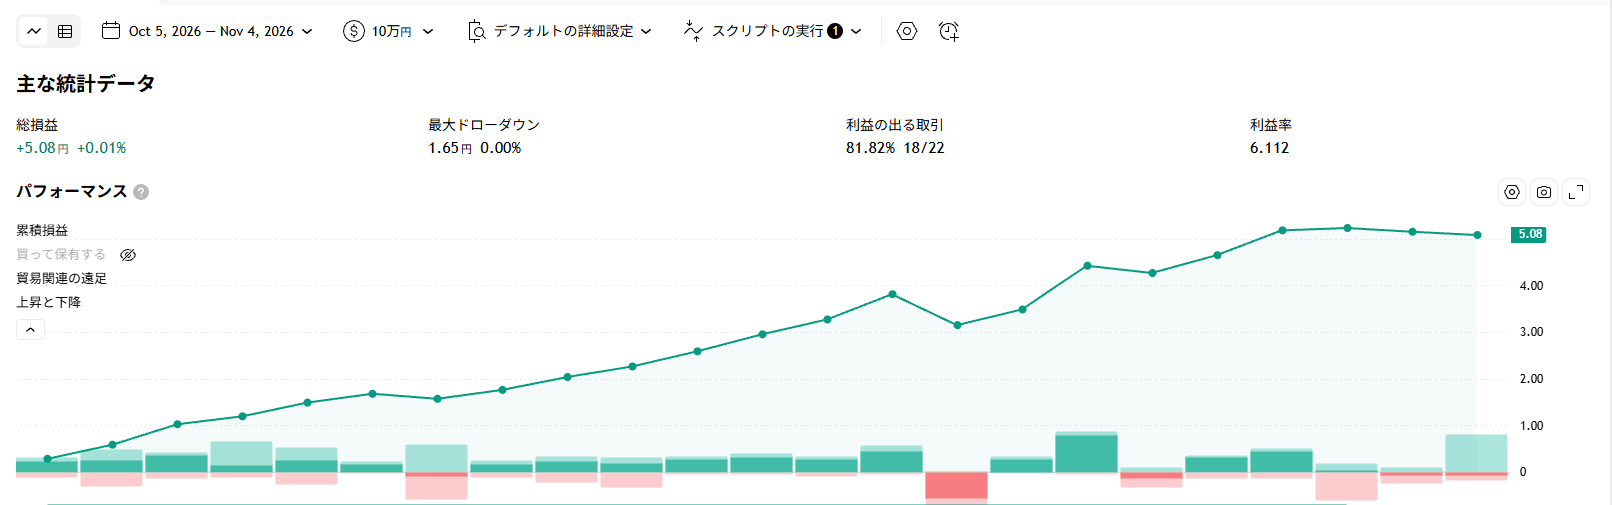
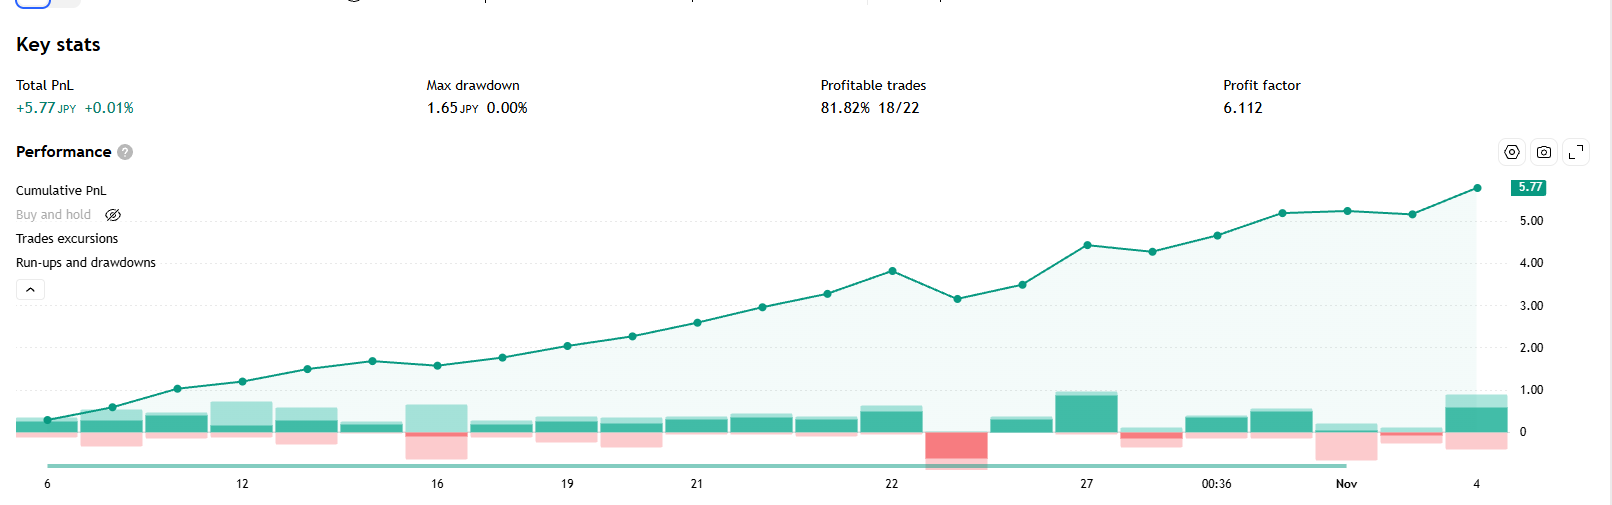
売買記録 2026-11-04（CA_RSI_Bol_1.1_JP）

diff --git a/index.html b/index.html
@@ -47,7 +47,7 @@ ul.days a{display:block;background:var(--card);border:1px solid var(--line);bord
 .eqw .cx{stroke:var(--muted);stroke-width:1;vector-effect:non-scaling-stroke;display:none}
 .eqw .dot{fill:var(--eq);stroke:var(--card);stroke-width:2;vector-effect:non-scaling-stroke;display:none}
 .eqt{position:absolute;top:4px;transform:translateX(-50%);background:var(--card);border:1px solid var(--line);border-radius:6px;padding:4px 8px;font-size:12px;line-height:1.5;white-space:nowrap;pointer-events:none;display:none;box-shadow:0 2px 8px rgba(0,0,0,.14)}
-</style></head><body><header><h1>TradingView 売買記録</h1><div class=sub>通算 ／ CA_RSI_Bol_1.1_JP — USDJPY 3分足</div></header><main><h2>通算成績</h2><p class=note>ChartArt「Bollinger + RSI, Double Strategy」v1.1 の日本語表示版。ロジックは原本と同じで、矢印を「買い／売り」表示にして評価損益を円で出すようにしたもの。アラート2本（1時間足・3分足）が稼働中。いちばん新しい取引（買い・2026-11-03 16:48 建て）は建玉中で、評価損益は含み益・含み損で変わります。</p><div class=kpi><div><div class=k>総損益</div><div class=v><span class="up">+6.77</span> 円</div><div class=n>建玉中込み +6.70 円</div></div><div><div class=k>利益率（PF）</div><div class=v>4.640</div><div class=n>建玉中込み 4.472</div></div><div><div class=k>勝率</div><div class=v>82.8%</div><div class=n>24 勝 / 29 取引</div></div><div><div class=k>最大ドローダウン</div><div class=v>1.92 円</div><div class=n>含み損も数えた谷</div></div></div><p class=note>記録を始めてからためた<b>全 30 取引</b>の通算です（2026-09-29 〜 2026-11-03）。TradingView がさかのぼれる範囲から外れた古い取引も台帳に残してあるので消えません。最後に記録したのは <b>2026-11-04</b>（2026-11-04 11:34 JST）。</p><h2>通算の損益カーブ</h2><p>決済が済んだ取引だけを、決済した順に積み上げたものです。線をなぞるとその取引が出ます。</p><div class=eqw id=eqw><svg viewBox="0 0 380 210" role=img aria-label="通算の損益カーブ。2026年09月29日から2026年11月03日まで、決済済み 29 取引の累積損益は +6.77 円。1件ごとの内訳は下のトレード履歴の表で読めます。"><title>通算の損益カーブ</title><line class="zl" x1="44.0" y1="184.0" x2="372.0" y2="184.0"/><text class=ax x="39.0" y="187.5" text-anchor=end>+0</text><line class="gl" x1="44.0" y1="141.0" x2="372.0" y2="141.0"/><text class=ax x="39.0" y="144.5" text-anchor=end>+2</text><line class="gl" x1="44.0" y1="98.0" x2="372.0" y2="98.0"/><text class=ax x="39.0" y="101.5" text-anchor=end>+4</text><line class="gl" x1="44.0" y1="55.0" x2="372.0" y2="55.0"/><text class=ax x="39.0" y="58.5" text-anchor=end>+6</text><line class="gl" x1="44.0" y1="12.0" x2="372.0" y2="12.0"/><text class=ax x="39.0" y="15.5" text-anchor=end>+8</text><text class=ax x="44.0" y="201.0" text-anchor=start>9/29</text><text class=ax x="202.4" y="201.0" text-anchor=middle>10/16</text><text class=ax x="372.0" y="201.0" text-anchor=end>11/3</text><polygon class=ar points="44.0,184.0 44.0,184.0 46.8,176.7 48.1,168.5 52.6,149.0 57.4,138.0 65.5,156.3 100.0,154.1 106.6,149.4 110.0,143.4 126.5,136.9 132.4,127.5 163.9,123.8 182.7,117.4 183.6,113.3 197.6,115.6 202.4,111.5 232.8,105.5 243.9,100.6 248.0,93.7 252.5,85.7 255.0,78.9 258.7,67.3 294.6,81.4 295.3,74.1 304.3,53.9 315.2,57.4 319.0,49.2 330.7,37.8 359.8,36.7 372.0,38.4 372.0,184.0"/><polyline class=ln points="44.0,184.0 46.8,176.7 48.1,168.5 52.6,149.0 57.4,138.0 65.5,156.3 100.0,154.1 106.6,149.4 110.0,143.4 126.5,136.9 132.4,127.5 163.9,123.8 182.7,117.4 183.6,113.3 197.6,115.6 202.4,111.5 232.8,105.5 243.9,100.6 248.0,93.7 252.5,85.7 255.0,78.9 258.7,67.3 294.6,81.4 295.3,74.1 304.3,53.9 315.2,57.4 319.0,49.2 330.7,37.8 359.8,36.7 372.0,38.4"/><text class=dl x="370.0" y="31.4" text-anchor=end>+6.77 円</text><line class=cx id=eqcx y1="12" y2="184" x1="0" x2="0"/><circle class=dot id=eqdot r="5" cx="0" cy="0"/></svg><div class=eqt id=eqt></div><script type="application/json" id=eqd>[{"x": 44.0, "y": 184.0, "t": "2026/09/29 記録開始<br>累積 +0.00 円"}, {"x": 46.8, "y": 176.7, "t": "2026/09/29 21:21 決済<br>売り +0.34 円<br>累積 +0.34 円"}, {"x": 48.1, "y": 168.5, "t": "2026/09/30 00:36 決済<br>買い +0.38 円<br>累積 +0.72 円"}, {"x": 52.6, "y": 149.0, "t": "2026/09/30 12:15 決済<br>売り +0.91 円<br>累積 +1.63 円"}, {"x": 57.4, "y": 138.0, "t": "2026/10/01 00:30 決済<br>買い +0.51 円<br>累積 +2.14 円"}, {"x": 65.5, "y": 156.3, "t": "2026/10/01 21:24 決済<br>売り -0.85 円<br>累積 +1.29 円"}, {"x": 100.0, "y": 154.1, "t": "2026/10/05 13:54 決済<br>買い +0.10 円<br>累積 +1.39 円"}, {"x": 106.6, "y": 149.4, "t": "2026/10/06 06:57 決済<br>売り +0.22 円<br>累積 +1.61 円"}, {"x": 110.0, "y": 143.4, "t": "2026/10/06 15:45 決済<br>買い +0.28 円<br>累積 +1.89 円"}, {"x": 126.5, "y": 136.9, "t": "2026/10/08 10:06 決済<br>売り +0.30 円<br>累積 +2.19 円"}, {"x": 132.4, "y": 127.5, "t": "2026/10/09 01:09 決済<br>買い +0.44 円<br>累積 +2.63 円"}, {"x": 163.9, "y": 123.8, "t": "2026/10/12 10:18 決済<br>売り +0.17 円<br>累積 +2.80 円"}, {"x": 182.7, "y": 117.4, "t": "2026/10/14 10:36 決済<br>買い +0.30 円<br>累積 +3.10 円"}, {"x": 183.6, "y": 113.3, "t": "2026/10/14 12:45 決済<br>売り +0.19 円<br>累積 +3.29 円"}, {"x": 197.6, "y": 115.6, "t": "2026/10/16 00:42 決済<br>買い -0.11 円<br>累積 +3.18 円"}, {"x": 202.4, "y": 111.5, "t": "2026/10/16 13:09 決済<br>売り +0.19 円<br>累積 +3.37 円"}, {"x": 232.8, "y": 105.5, "t": "2026/10/19 19:18 決済<br>買い +0.28 円<br>累積 +3.65 円"}, {"x": 243.9, "y": 100.6, "t": "2026/10/20 23:48 決済<br>売り +0.23 円<br>累積 +3.88 円"}, {"x": 248.0, "y": 93.7, "t": "2026/10/21 10:09 決済<br>買い +0.32 円<br>累積 +4.20 円"}, {"x": 252.5, "y": 85.7, "t": "2026/10/21 21:48 決済<br>売り +0.37 円<br>累積 +4.57 円"}, {"x": 255.0, "y": 78.9, "t": "2026/10/22 04:18 決済<br>買い +0.32 円<br>累積 +4.89 円"}, {"x": 258.7, "y": 67.3, "t": "2026/10/22 13:45 決済<br>売り +0.54 円<br>累積 +5.43 円"}, {"x": 294.6, "y": 81.4, "t": "2026/10/26 10:03 決済<br>買い -0.66 円<br>累積 +4.77 円"}, {"x": 295.3, "y": 74.1, "t": "2026/10/26 11:48 決済<br>売り +0.34 円<br>累積 +5.11 円"}, {"x": 304.3, "y": 53.9, "t": "2026/10/27 11:00 決済<br>買い +0.94 円<br>累積 +6.05 円"}, {"x": 315.2, "y": 57.4, "t": "2026/10/28 14:54 決済<br>売り -0.16 円<br>累積 +5.89 円"}, {"x": 319.0, "y": 49.2, "t": "2026/10/29 00:36 決済<br>買い +0.38 円<br>累積 +6.27 円"}, {"x": 330.7, "y": 37.8, "t": "2026/10/30 06:39 決済<br>売り +0.53 円<br>累積 +6.80 円"}, {"x": 359.8, "y": 36.7, "t": "2026/11/02 09:33 決済<br>買い +0.05 円<br>累積 +6.85 円"}, {"x": 372.0, "y": 38.4, "t": "2026/11/03 16:48 決済<br>売り -0.08 円<br>累積 +6.77 円"}]</script></div><h2>トレード履歴（通算）</h2><p>全 30 件（新しい順）</p><p class=cap>日時は上がエントリー・下が決済。小さい字は価格です。</p><div class=sc><table><thead><tr><th>#</th><th>方向</th><th>日時</th><th>損益<br>(円)</th><th>累積<br>(円)</th></tr></thead><tbody><tr class=op><td class=num>30</td><td><span class="tag b">買</span></td><td>11/03 16:48<br>↓ <b>建玉中</b><div class=px>157.799 → （未決済）</div></td><td class=num><span class="dn">-0.07</span></td><td class=num>+6.70</td></tr><tr><td class=num>29</td><td><span class="tag s">売</span></td><td>11/02 09:33<br>↓ 11/03 16:48<div class=px>157.719 → 157.799</div></td><td class=num><span class="dn">-0.08</span></td><td class=num>+6.77</td></tr><tr><td class=num>28</td><td><span class="tag b">買</span></td><td>10/30 06:39<br>↓ 11/02 09:33<div class=px>157.668 → 157.719</div></td><td class=num><span class="up">+0.05</span></td><td class=num>+6.85</td></tr><tr><td class=num>27</td><td><span class="tag s">売</span></td><td>10/29 00:36<br>↓ 10/30 06:39<div class=px>158.199 → 157.668</div></td><td class=num><span class="up">+0.53</span></td><td class=num>+6.80</td></tr><tr><td class=num>26</td><td><span class="tag b">買</span></td><td>10/28 14:54<br>↓ 10/29 00:36<div class=px>157.816 → 158.199</div></td><td class=num><span class="up">+0.38</span></td><td class=num>+6.27</td></tr><tr><td class=num>25</td><td><span class="tag s">売</span></td><td>10/27 11:00<br>↓ 10/28 14:54<div class=px>157.659 → 157.816</div></td><td class=num><span class="dn">-0.16</span></td><td class=num>+5.89</td></tr><tr><td class=num>24</td><td><span class="tag b">買</span></td><td>10/26 11:48<br>↓ 10/27 11:00<div class=px>156.721 → 157.659</div></td><td class=num><span class="up">+0.94</span></td><td class=num>+6.05</td></tr><tr><td class=num>23</td><td><span class="tag s">売</span></td><td>10/26 10:03<br>↓ 10/26 11:48<div class=px>157.057 → 156.721</div></td><td class=num><span class="up">+0.34</span></td><td class=num>+5.11</td></tr><tr><td class=num>22</td><td><span class="tag b">買</span></td><td>10/22 13:45<br>↓ 10/26 10:03<div class=px>157.719 → 157.057</div></td><td class=num><span class="dn">-0.66</span></td><td class=num>+4.77</td></tr><tr><td class=num>21</td><td><span class="tag s">売</span></td><td>10/22 04:18<br>↓ 10/22 13:45<div class=px>158.26 → 157.719</div></td><td class=num><span class="up">+0.54</span></td><td class=num>+5.43</td></tr><tr><td class=num>20</td><td><span class="tag b">買</span></td><td>10/21 21:48<br>↓ 10/22 04:18<div class=px>157.942 → 158.26</div></td><td class=num><span class="up">+0.32</span></td><td class=num>+4.89</td></tr><tr><td class=num>19</td><td><span class="tag s">売</span></td><td>10/21 10:09<br>↓ 10/21 21:48<div class=px>158.307 → 157.942</div></td><td class=num><span class="up">+0.37</span></td><td class=num>+4.57</td></tr><tr><td class=num>18</td><td><span class="tag b">買</span></td><td>10/20 23:48<br>↓ 10/21 10:09<div class=px>157.983 → 158.307</div></td><td class=num><span class="up">+0.32</span></td><td class=num>+4.20</td></tr><tr><td class=num>17</td><td><span class="tag s">売</span></td><td>10/19 19:18<br>↓ 10/20 23:48<div class=px>158.21 → 157.983</div></td><td class=num><span class="up">+0.23</span></td><td class=num>+3.88</td></tr><tr><td class=num>16</td><td><span class="tag b">買</span></td><td>10/16 13:09<br>↓ 10/19 19:18<div class=px>157.935 → 158.21</div></td><td class=num><span class="up">+0.28</span></td><td class=num>+3.65</td></tr><tr><td class=num>15</td><td><span class="tag s">売</span></td><td>10/16 00:42<br>↓ 10/16 13:09<div class=px>158.126 → 157.935</div></td><td class=num><span class="up">+0.19</span></td><td class=num>+3.37</td></tr><tr><td class=num>14</td><td><span class="tag b">買</span></td><td>10/14 12:45<br>↓ 10/16 00:42<div class=px>158.234 → 158.126</div></td><td class=num><span class="dn">-0.11</span></td><td class=num>+3.18</td></tr><tr><td class=num>13</td><td><span class="tag s">売</span></td><td>10/14 10:36<br>↓ 10/14 12:45<div class=px>158.423 → 158.234</div></td><td class=num><span class="up">+0.19</span></td><td class=num>+3.29</td></tr><tr><td class=num>12</td><td><span class="tag b">買</span></td><td>10/12 10:18<br>↓ 10/14 10:36<div class=px>158.128 → 158.423</div></td><td class=num><span class="up">+0.30</span></td><td class=num>+3.10</td></tr><tr><td class=num>11</td><td><span class="tag s">売</span></td><td>10/09 01:09<br>↓ 10/12 10:18<div class=px>158.297 → 158.128</div></td><td class=num><span class="up">+0.17</span></td><td class=num>+2.80</td></tr><tr><td class=num>10</td><td><span class="tag b">買</span></td><td>10/08 10:06<br>↓ 10/09 01:09<div class=px>157.858 → 158.297</div></td><td class=num><span class="up">+0.44</span></td><td class=num>+2.63</td></tr><tr><td class=num>9</td><td><span class="tag s">売</span></td><td>10/06 15:45<br>↓ 10/08 10:06<div class=px>158.16 → 157.858</div></td><td class=num><span class="up">+0.30</span></td><td class=num>+2.19</td></tr><tr><td class=num>8</td><td><span class="tag b">買</span></td><td>10/06 06:57<br>↓ 10/06 15:45<div class=px>157.879 → 158.16</div></td><td class=num><span class="up">+0.28</span></td><td class=num>+1.89</td></tr><tr><td class=num>7</td><td><span class="tag s">売</span></td><td>10/05 13:54<br>↓ 10/06 06:57<div class=px>158.103 → 157.879</div></td><td class=num><span class="up">+0.22</span></td><td class=num>+1.61</td></tr><tr><td class=num>6</td><td><span class="tag b">買</span></td><td>10/01 21:24<br>↓ 10/05 13:54<div class=px>158.003 → 158.103</div></td><td class=num><span class="up">+0.10</span></td><td class=num>+1.39</td></tr><tr><td class=num>5</td><td><span class="tag s">売</span></td><td>10/01 00:30<br>↓ 10/01 21:24<div class=px>157.151 → 158.003</div></td><td class=num><span class="dn">-0.85</span></td><td class=num>+1.29</td></tr><tr><td class=num>4</td><td><span class="tag b">買</span></td><td>09/30 12:15<br>↓ 10/01 00:30<div class=px>156.644 → 157.151</div></td><td class=num><span class="up">+0.51</span></td><td class=num>+2.14</td></tr><tr><td class=num>3</td><td><span class="tag s">売</span></td><td>09/30 00:36<br>↓ 09/30 12:15<div class=px>157.553 → 156.644</div></td><td class=num><span class="up">+0.91</span></td><td class=num>+1.63</td></tr><tr><td class=num>2</td><td><span class="tag b">買</span></td><td>09/29 21:21<br>↓ 09/30 00:36<div class=px>157.169 → 157.553</div></td><td class=num><span class="up">+0.38</span></td><td class=num>+0.72</td></tr><tr><td class=num>1</td><td><span class="tag s">売</span></td><td>09/29 14:09<br>↓ 09/29 21:21<div class=px>157.509 → 157.169</div></td><td class=num><span class="up">+0.34</span></td><td class=num>+0.34</td></tr></tbody></table></div><h2>この日の TradingView 画面</h2><p class=note><b>取得日時 2026-11-04 11:34 JST</b><br>TradingView がこの日さかのぼれた範囲は <b>2026-10-06 〜 2026-11-03</b>（23 取引）。その範囲だけで集計すると 総損益 +5.15 円 ／ 利益率 6.109。<br>上の通算と数字が違うのは、通算には窓から外れた古い取引も入っているからです。</p><h3>戦略レポート（主な統計データと累積損益カーブ）</h3><a href='2026-11-04/report.png' target=_blank rel=noopener><img src='2026-11-04/report.png' alt='戦略レポート（主な統計データと累積損益カーブ）'></a><p class=cap>画像をタップすると原寸で開きます</p><h2>日付ごとの記録</h2><ul class=days><li><a href='2026-11-04/'>2026-11-04　← いちばん新しい記録</a></li><li><a href='2026-11-03/'>2026-11-03</a></li><li><a href='2026-11-02/'>2026-11-02</a></li><li><a href='2026-11-01/'>2026-11-01</a></li><li><a href='2026-10-31/'>2026-10-31</a></li></ul><details open><summary>⚠ 数字を読むときの注意</summary><ul><li><b>通算は「記録したときに TradingView に見えていた取引」を足したもの</b>です。記録を始める前の取引や、記録の間隔が開いて窓から外れてしまった取引は入りません</li><li>通算の総損益は<b>1取引ごとの損益を足し上げた値</b>です。TradingView の「累積損益」の列は行ごとに丸めてあるので、そちらとわずかに違います（いちばん新しい記録の範囲で 足し上げ +5.16 円 / TV の列 +5.15 円）</li><li><b>TradingView の画面に出る「利益率」は建玉中の評価損益を含みません</b>。いま建玉中が -0.07 円あり、含めると利益率は 4.640 → 4.472 になります</li><li>表の損益はスプレッドや実際の約定ズレを含みません。実口座の成績とは一致しません</li><li>最大ドローダウンは、決済ごとの累積損益に加えて保有中の含み損も谷として数えています。TradingView の表示と計算の土俵が違うことがあります</li><li>この戦略は5分足6年の独立検証では利益率 0.924（ランダムに入った場合より悪い）でした。ここに出ている短期の高い利益率は、期間の取り方で出ることがあります</li><li>3分足は長期の裏取りができません（手持ちの検証データは最短5分足）</li></ul></details><p class=foot>TradingView の戦略テスターから自動で作っています。取引一覧の原本（CSV）と通算台帳は非公開の保管用リポジトリにあります。</p></main><script>
+</style></head><body><header><h1>TradingView 売買記録</h1><div class=sub>通算 ／ CA_RSI_Bol_1.1_JP — USDJPY 3分足</div></header><main><h2>通算成績</h2><p class=note>ChartArt「Bollinger + RSI, Double Strategy」v1.1 の日本語表示版。ロジックは原本と同じで、矢印を「買い／売り」表示にして評価損益を円で出すようにしたもの。アラート2本（1時間足・3分足）が稼働中。いちばん新しい取引（買い・2026-11-03 16:48 建て）は建玉中で、評価損益は含み益・含み損で変わります。</p><div class=kpi><div><div class=k>総損益</div><div class=v><span class="up">+6.77</span> 円</div><div class=n>建玉中込み +7.39 円</div></div><div><div class=k>利益率（PF）</div><div class=v>4.640</div><div class=n>建玉中込み 4.973</div></div><div><div class=k>勝率</div><div class=v>82.8%</div><div class=n>24 勝 / 29 取引</div></div><div><div class=k>最大ドローダウン</div><div class=v>1.92 円</div><div class=n>含み損も数えた谷</div></div></div><p class=note>記録を始めてからためた<b>全 30 取引</b>の通算です（2026-09-29 〜 2026-11-03）。TradingView がさかのぼれる範囲から外れた古い取引も台帳に残してあるので消えません。最後に記録したのは <b>2026-11-04</b>（2026-11-04 20:50 JST）。</p><h2>通算の損益カーブ</h2><p>決済が済んだ取引だけを、決済した順に積み上げたものです。線をなぞるとその取引が出ます。</p><div class=eqw id=eqw><svg viewBox="0 0 380 210" role=img aria-label="通算の損益カーブ。2026年09月29日から2026年11月03日まで、決済済み 29 取引の累積損益は +6.77 円。1件ごとの内訳は下のトレード履歴の表で読めます。"><title>通算の損益カーブ</title><line class="zl" x1="44.0" y1="184.0" x2="372.0" y2="184.0"/><text class=ax x="39.0" y="187.5" text-anchor=end>+0</text><line class="gl" x1="44.0" y1="141.0" x2="372.0" y2="141.0"/><text class=ax x="39.0" y="144.5" text-anchor=end>+2</text><line class="gl" x1="44.0" y1="98.0" x2="372.0" y2="98.0"/><text class=ax x="39.0" y="101.5" text-anchor=end>+4</text><line class="gl" x1="44.0" y1="55.0" x2="372.0" y2="55.0"/><text class=ax x="39.0" y="58.5" text-anchor=end>+6</text><line class="gl" x1="44.0" y1="12.0" x2="372.0" y2="12.0"/><text class=ax x="39.0" y="15.5" text-anchor=end>+8</text><text class=ax x="44.0" y="201.0" text-anchor=start>9/29</text><text class=ax x="202.4" y="201.0" text-anchor=middle>10/16</text><text class=ax x="372.0" y="201.0" text-anchor=end>11/3</text><polygon class=ar points="44.0,184.0 44.0,184.0 46.8,176.7 48.1,168.5 52.6,149.0 57.4,138.0 65.5,156.3 100.0,154.1 106.6,149.4 110.0,143.4 126.5,136.9 132.4,127.5 163.9,123.8 182.7,117.4 183.6,113.3 197.6,115.6 202.4,111.5 232.8,105.5 243.9,100.6 248.0,93.7 252.5,85.7 255.0,78.9 258.7,67.3 294.6,81.4 295.3,74.1 304.3,53.9 315.2,57.4 319.0,49.2 330.7,37.8 359.8,36.7 372.0,38.4 372.0,184.0"/><polyline class=ln points="44.0,184.0 46.8,176.7 48.1,168.5 52.6,149.0 57.4,138.0 65.5,156.3 100.0,154.1 106.6,149.4 110.0,143.4 126.5,136.9 132.4,127.5 163.9,123.8 182.7,117.4 183.6,113.3 197.6,115.6 202.4,111.5 232.8,105.5 243.9,100.6 248.0,93.7 252.5,85.7 255.0,78.9 258.7,67.3 294.6,81.4 295.3,74.1 304.3,53.9 315.2,57.4 319.0,49.2 330.7,37.8 359.8,36.7 372.0,38.4"/><text class=dl x="370.0" y="31.4" text-anchor=end>+6.77 円</text><line class=cx id=eqcx y1="12" y2="184" x1="0" x2="0"/><circle class=dot id=eqdot r="5" cx="0" cy="0"/></svg><div class=eqt id=eqt></div><script type="application/json" id=eqd>[{"x": 44.0, "y": 184.0, "t": "2026/09/29 記録開始<br>累積 +0.00 円"}, {"x": 46.8, "y": 176.7, "t": "2026/09/29 21:21 決済<br>売り +0.34 円<br>累積 +0.34 円"}, {"x": 48.1, "y": 168.5, "t": "2026/09/30 00:36 決済<br>買い +0.38 円<br>累積 +0.72 円"}, {"x": 52.6, "y": 149.0, "t": "2026/09/30 12:15 決済<br>売り +0.91 円<br>累積 +1.63 円"}, {"x": 57.4, "y": 138.0, "t": "2026/10/01 00:30 決済<br>買い +0.51 円<br>累積 +2.14 円"}, {"x": 65.5, "y": 156.3, "t": "2026/10/01 21:24 決済<br>売り -0.85 円<br>累積 +1.29 円"}, {"x": 100.0, "y": 154.1, "t": "2026/10/05 13:54 決済<br>買い +0.10 円<br>累積 +1.39 円"}, {"x": 106.6, "y": 149.4, "t": "2026/10/06 06:57 決済<br>売り +0.22 円<br>累積 +1.61 円"}, {"x": 110.0, "y": 143.4, "t": "2026/10/06 15:45 決済<br>買い +0.28 円<br>累積 +1.89 円"}, {"x": 126.5, "y": 136.9, "t": "2026/10/08 10:06 決済<br>売り +0.30 円<br>累積 +2.19 円"}, {"x": 132.4, "y": 127.5, "t": "2026/10/09 01:09 決済<br>買い +0.44 円<br>累積 +2.63 円"}, {"x": 163.9, "y": 123.8, "t": "2026/10/12 10:18 決済<br>売り +0.17 円<br>累積 +2.80 円"}, {"x": 182.7, "y": 117.4, "t": "2026/10/14 10:36 決済<br>買い +0.30 円<br>累積 +3.10 円"}, {"x": 183.6, "y": 113.3, "t": "2026/10/14 12:45 決済<br>売り +0.19 円<br>累積 +3.29 円"}, {"x": 197.6, "y": 115.6, "t": "2026/10/16 00:42 決済<br>買い -0.11 円<br>累積 +3.18 円"}, {"x": 202.4, "y": 111.5, "t": "2026/10/16 13:09 決済<br>売り +0.19 円<br>累積 +3.37 円"}, {"x": 232.8, "y": 105.5, "t": "2026/10/19 19:18 決済<br>買い +0.28 円<br>累積 +3.65 円"}, {"x": 243.9, "y": 100.6, "t": "2026/10/20 23:48 決済<br>売り +0.23 円<br>累積 +3.88 円"}, {"x": 248.0, "y": 93.7, "t": "2026/10/21 10:09 決済<br>買い +0.32 円<br>累積 +4.20 円"}, {"x": 252.5, "y": 85.7, "t": "2026/10/21 21:48 決済<br>売り +0.37 円<br>累積 +4.57 円"}, {"x": 255.0, "y": 78.9, "t": "2026/10/22 04:18 決済<br>買い +0.32 円<br>累積 +4.89 円"}, {"x": 258.7, "y": 67.3, "t": "2026/10/22 13:45 決済<br>売り +0.54 円<br>累積 +5.43 円"}, {"x": 294.6, "y": 81.4, "t": "2026/10/26 10:03 決済<br>買い -0.66 円<br>累積 +4.77 円"}, {"x": 295.3, "y": 74.1, "t": "2026/10/26 11:48 決済<br>売り +0.34 円<br>累積 +5.11 円"}, {"x": 304.3, "y": 53.9, "t": "2026/10/27 11:00 決済<br>買い +0.94 円<br>累積 +6.05 円"}, {"x": 315.2, "y": 57.4, "t": "2026/10/28 14:54 決済<br>売り -0.16 円<br>累積 +5.89 円"}, {"x": 319.0, "y": 49.2, "t": "2026/10/29 00:36 決済<br>買い +0.38 円<br>累積 +6.27 円"}, {"x": 330.7, "y": 37.8, "t": "2026/10/30 06:39 決済<br>売り +0.53 円<br>累積 +6.80 円"}, {"x": 359.8, "y": 36.7, "t": "2026/11/02 09:33 決済<br>買い +0.05 円<br>累積 +6.85 円"}, {"x": 372.0, "y": 38.4, "t": "2026/11/03 16:48 決済<br>売り -0.08 円<br>累積 +6.77 円"}]</script></div><h2>トレード履歴（通算）</h2><p>全 30 件（新しい順）</p><p class=cap>日時は上がエントリー・下が決済。小さい字は価格です。</p><div class=sc><table><thead><tr><th>#</th><th>方向</th><th>日時</th><th>損益<br>(円)</th><th>累積<br>(円)</th></tr></thead><tbody><tr class=op><td class=num>30</td><td><span class="tag b">買</span></td><td>11/03 16:48<br>↓ <b>建玉中</b><div class=px>157.799 → （未決済）</div></td><td class=num><span class="up">+0.62</span></td><td class=num>+7.39</td></tr><tr><td class=num>29</td><td><span class="tag s">売</span></td><td>11/02 09:33<br>↓ 11/03 16:48<div class=px>157.719 → 157.799</div></td><td class=num><span class="dn">-0.08</span></td><td class=num>+6.77</td></tr><tr><td class=num>28</td><td><span class="tag b">買</span></td><td>10/30 06:39<br>↓ 11/02 09:33<div class=px>157.668 → 157.719</div></td><td class=num><span class="up">+0.05</span></td><td class=num>+6.85</td></tr><tr><td class=num>27</td><td><span class="tag s">売</span></td><td>10/29 00:36<br>↓ 10/30 06:39<div class=px>158.199 → 157.668</div></td><td class=num><span class="up">+0.53</span></td><td class=num>+6.80</td></tr><tr><td class=num>26</td><td><span class="tag b">買</span></td><td>10/28 14:54<br>↓ 10/29 00:36<div class=px>157.816 → 158.199</div></td><td class=num><span class="up">+0.38</span></td><td class=num>+6.27</td></tr><tr><td class=num>25</td><td><span class="tag s">売</span></td><td>10/27 11:00<br>↓ 10/28 14:54<div class=px>157.659 → 157.816</div></td><td class=num><span class="dn">-0.16</span></td><td class=num>+5.89</td></tr><tr><td class=num>24</td><td><span class="tag b">買</span></td><td>10/26 11:48<br>↓ 10/27 11:00<div class=px>156.721 → 157.659</div></td><td class=num><span class="up">+0.94</span></td><td class=num>+6.05</td></tr><tr><td class=num>23</td><td><span class="tag s">売</span></td><td>10/26 10:03<br>↓ 10/26 11:48<div class=px>157.057 → 156.721</div></td><td class=num><span class="up">+0.34</span></td><td class=num>+5.11</td></tr><tr><td class=num>22</td><td><span class="tag b">買</span></td><td>10/22 13:45<br>↓ 10/26 10:03<div class=px>157.719 → 157.057</div></td><td class=num><span class="dn">-0.66</span></td><td class=num>+4.77</td></tr><tr><td class=num>21</td><td><span class="tag s">売</span></td><td>10/22 04:18<br>↓ 10/22 13:45<div class=px>158.26 → 157.719</div></td><td class=num><span class="up">+0.54</span></td><td class=num>+5.43</td></tr><tr><td class=num>20</td><td><span class="tag b">買</span></td><td>10/21 21:48<br>↓ 10/22 04:18<div class=px>157.942 → 158.26</div></td><td class=num><span class="up">+0.32</span></td><td class=num>+4.89</td></tr><tr><td class=num>19</td><td><span class="tag s">売</span></td><td>10/21 10:09<br>↓ 10/21 21:48<div class=px>158.307 → 157.942</div></td><td class=num><span class="up">+0.37</span></td><td class=num>+4.57</td></tr><tr><td class=num>18</td><td><span class="tag b">買</span></td><td>10/20 23:48<br>↓ 10/21 10:09<div class=px>157.983 → 158.307</div></td><td class=num><span class="up">+0.32</span></td><td class=num>+4.20</td></tr><tr><td class=num>17</td><td><span class="tag s">売</span></td><td>10/19 19:18<br>↓ 10/20 23:48<div class=px>158.21 → 157.983</div></td><td class=num><span class="up">+0.23</span></td><td class=num>+3.88</td></tr><tr><td class=num>16</td><td><span class="tag b">買</span></td><td>10/16 13:09<br>↓ 10/19 19:18<div class=px>157.935 → 158.21</div></td><td class=num><span class="up">+0.28</span></td><td class=num>+3.65</td></tr><tr><td class=num>15</td><td><span class="tag s">売</span></td><td>10/16 00:42<br>↓ 10/16 13:09<div class=px>158.126 → 157.935</div></td><td class=num><span class="up">+0.19</span></td><td class=num>+3.37</td></tr><tr><td class=num>14</td><td><span class="tag b">買</span></td><td>10/14 12:45<br>↓ 10/16 00:42<div class=px>158.234 → 158.126</div></td><td class=num><span class="dn">-0.11</span></td><td class=num>+3.18</td></tr><tr><td class=num>13</td><td><span class="tag s">売</span></td><td>10/14 10:36<br>↓ 10/14 12:45<div class=px>158.423 → 158.234</div></td><td class=num><span class="up">+0.19</span></td><td class=num>+3.29</td></tr><tr><td class=num>12</td><td><span class="tag b">買</span></td><td>10/12 10:18<br>↓ 10/14 10:36<div class=px>158.128 → 158.423</div></td><td class=num><span class="up">+0.30</span></td><td class=num>+3.10</td></tr><tr><td class=num>11</td><td><span class="tag s">売</span></td><td>10/09 01:09<br>↓ 10/12 10:18<div class=px>158.297 → 158.128</div></td><td class=num><span class="up">+0.17</span></td><td class=num>+2.80</td></tr><tr><td class=num>10</td><td><span class="tag b">買</span></td><td>10/08 10:06<br>↓ 10/09 01:09<div class=px>157.858 → 158.297</div></td><td class=num><span class="up">+0.44</span></td><td class=num>+2.63</td></tr><tr><td class=num>9</td><td><span class="tag s">売</span></td><td>10/06 15:45<br>↓ 10/08 10:06<div class=px>158.16 → 157.858</div></td><td class=num><span class="up">+0.30</span></td><td class=num>+2.19</td></tr><tr><td class=num>8</td><td><span class="tag b">買</span></td><td>10/06 06:57<br>↓ 10/06 15:45<div class=px>157.879 → 158.16</div></td><td class=num><span class="up">+0.28</span></td><td class=num>+1.89</td></tr><tr><td class=num>7</td><td><span class="tag s">売</span></td><td>10/05 13:54<br>↓ 10/06 06:57<div class=px>158.103 → 157.879</div></td><td class=num><span class="up">+0.22</span></td><td class=num>+1.61</td></tr><tr><td class=num>6</td><td><span class="tag b">買</span></td><td>10/01 21:24<br>↓ 10/05 13:54<div class=px>158.003 → 158.103</div></td><td class=num><span class="up">+0.10</span></td><td class=num>+1.39</td></tr><tr><td class=num>5</td><td><span class="tag s">売</span></td><td>10/01 00:30<br>↓ 10/01 21:24<div class=px>157.151 → 158.003</div></td><td class=num><span class="dn">-0.85</span></td><td class=num>+1.29</td></tr><tr><td class=num>4</td><td><span class="tag b">買</span></td><td>09/30 12:15<br>↓ 10/01 00:30<div class=px>156.644 → 157.151</div></td><td class=num><span class="up">+0.51</span></td><td class=num>+2.14</td></tr><tr><td class=num>3</td><td><span class="tag s">売</span></td><td>09/30 00:36<br>↓ 09/30 12:15<div class=px>157.553 → 156.644</div></td><td class=num><span class="up">+0.91</span></td><td class=num>+1.63</td></tr><tr><td class=num>2</td><td><span class="tag b">買</span></td><td>09/29 21:21<br>↓ 09/30 00:36<div class=px>157.169 → 157.553</div></td><td class=num><span class="up">+0.38</span></td><td class=num>+0.72</td></tr><tr><td class=num>1</td><td><span class="tag s">売</span></td><td>09/29 14:09<br>↓ 09/29 21:21<div class=px>157.509 → 157.169</div></td><td class=num><span class="up">+0.34</span></td><td class=num>+0.34</td></tr></tbody></table></div><h2>この日の TradingView 画面</h2><p class=note><b>取得日時 2026-11-04 20:50 JST</b><br>TradingView がこの日さかのぼれた範囲は <b>2026-10-06 〜 2026-11-03</b>（23 取引）。その範囲だけで集計すると 総損益 +5.15 円 ／ 利益率 6.109。<br>上の通算と数字が違うのは、通算には窓から外れた古い取引も入っているからです。</p><h3>戦略レポート（主な統計データと累積損益カーブ）</h3><a href='2026-11-04/report.png' target=_blank rel=noopener><img src='2026-11-04/report.png' alt='戦略レポート（主な統計データと累積損益カーブ）'></a><p class=cap>画像をタップすると原寸で開きます</p><h2>日付ごとの記録</h2><ul class=days><li><a href='2026-11-04/'>2026-11-04　← いちばん新しい記録</a></li><li><a href='2026-11-03/'>2026-11-03</a></li><li><a href='2026-11-02/'>2026-11-02</a></li><li><a href='2026-11-01/'>2026-11-01</a></li><li><a href='2026-10-31/'>2026-10-31</a></li></ul><details open><summary>⚠ 数字を読むときの注意</summary><ul><li><b>通算は「記録したときに TradingView に見えていた取引」を足したもの</b>です。記録を始める前の取引や、記録の間隔が開いて窓から外れてしまった取引は入りません</li><li>通算の総損益は<b>1取引ごとの損益を足し上げた値</b>です。TradingView の「累積損益」の列は行ごとに丸めてあるので、そちらとわずかに違います（いちばん新しい記録の範囲で 足し上げ +5.16 円 / TV の列 +5.15 円）</li><li><b>TradingView の画面に出る「利益率」は建玉中の評価損益を含みません</b>。いま建玉中が +0.62 円あり、含めると利益率は 4.640 → 4.973 になります</li><li>表の損益はスプレッドや実際の約定ズレを含みません。実口座の成績とは一致しません</li><li>最大ドローダウンは、決済ごとの累積損益に加えて保有中の含み損も谷として数えています。TradingView の表示と計算の土俵が違うことがあります</li><li>この戦略は5分足6年の独立検証では利益率 0.924（ランダムに入った場合より悪い）でした。ここに出ている短期の高い利益率は、期間の取り方で出ることがあります</li><li>3分足は長期の裏取りができません（手持ちの検証データは最短5分足）</li></ul></details><p class=foot>TradingView の戦略テスターから自動で作っています。取引一覧の原本（CSV）と通算台帳は非公開の保管用リポジトリにあります。</p></main><script>
 (function(){
  var w=document.getElementById('eqw'); if(!w) return;
  var pts=JSON.parse(document.getElementById('eqd').textContent);

diff --git a/2026-11-04/index.html b/2026-11-04/index.html
@@ -47,4 +47,4 @@ ul.days a{display:block;background:var(--card);border:1px solid var(--line);bord
 .eqw .cx{stroke:var(--muted);stroke-width:1;vector-effect:non-scaling-stroke;display:none}
 .eqw .dot{fill:var(--eq);stroke:var(--card);stroke-width:2;vector-effect:non-scaling-stroke;display:none}
 .eqt{position:absolute;top:4px;transform:translateX(-50%);background:var(--card);border:1px solid var(--line);border-radius:6px;padding:4px 8px;font-size:12px;line-height:1.5;white-space:nowrap;pointer-events:none;display:none;box-shadow:0 2px 8px rgba(0,0,0,.14)}
-</style></head><body><header><h1>売買記録 2026-11-04</h1><div class=sub>CA_RSI_Bol_1.1_JP — USDJPY 3分足</div><p style='margin:6px 0 0'><a href='../'>← 通算・過去の一覧</a></p></header><main><div class=kpi><div><div class=k>総損益</div><div class=v><span class="up">+5.15</span> 円</div><div class=n>建玉中込み +5.08 円</div></div><div><div class=k>利益率（PF）</div><div class=v>6.109</div><div class=n>建玉中込み 5.713</div></div><div><div class=k>勝率</div><div class=v>81.8%</div><div class=n>18 勝 / 22 取引</div></div><div><div class=k>最大ドローダウン</div><div class=v>1.65 円</div><div class=n>含み損も数えた谷</div></div></div><p class=note><b>取得日時 2026-11-04 11:34 JST</b>（この日さかのぼれた範囲 2026-10-06 〜 2026-11-03）<br>このページは<b>その日の TradingView 画面そのまま</b>です。古い取引も含めた通算は<a href="../">トップページ</a>にあります。</p><p class=note>ChartArt「Bollinger + RSI, Double Strategy」v1.1 の日本語表示版。ロジックは原本と同じで、矢印を「買い／売り」表示にして評価損益を円で出すようにしたもの。アラート2本（1時間足・3分足）が稼働中。いちばん新しい取引（買い・2026-11-03 16:48 建て）は建玉中で、評価損益は含み益・含み損で変わります。</p><h2>戦略レポート（主な統計データと累積損益カーブ）</h2><a href='report.png' target=_blank rel=noopener><img src='report.png' alt='戦略レポート（主な統計データと累積損益カーブ）'></a><p class=cap>画像をタップすると原寸で開きます</p><h2>この日の取引一覧</h2><p>23 件（新しい順）</p><p class=cap>日時は上がエントリー・下が決済。小さい字は価格です。</p><div class=sc><table><thead><tr><th>#</th><th>方向</th><th>日時</th><th>損益<br>(円)</th><th>累積<br>(円)</th></tr></thead><tbody><tr class=op><td class=num>23</td><td><span class="tag b">買</span></td><td>11/03 16:48<br>↓ <b>建玉中</b><div class=px>157.799 → （未決済）</div></td><td class=num><span class="dn">-0.07</span></td><td class=num>+5.08</td></tr><tr><td class=num>22</td><td><span class="tag s">売</span></td><td>11/02 09:33<br>↓ 11/03 16:48<div class=px>157.719 → 157.799</div></td><td class=num><span class="dn">-0.08</span></td><td class=num>+5.15</td></tr><tr><td class=num>21</td><td><span class="tag b">買</span></td><td>10/30 06:39<br>↓ 11/02 09:33<div class=px>157.668 → 157.719</div></td><td class=num><span class="up">+0.05</span></td><td class=num>+5.23</td></tr><tr><td class=num>20</td><td><span class="tag s">売</span></td><td>10/29 00:36<br>↓ 10/30 06:39<div class=px>158.199 → 157.668</div></td><td class=num><span class="up">+0.53</span></td><td class=num>+5.18</td></tr><tr><td class=num>19</td><td><span class="tag b">買</span></td><td>10/28 14:54<br>↓ 10/29 00:36<div class=px>157.816 → 158.199</div></td><td class=num><span class="up">+0.38</span></td><td class=num>+4.65</td></tr><tr><td class=num>18</td><td><span class="tag s">売</span></td><td>10/27 11:00<br>↓ 10/28 14:54<div class=px>157.659 → 157.816</div></td><td class=num><span class="dn">-0.16</span></td><td class=num>+4.26</td></tr><tr><td class=num>17</td><td><span class="tag b">買</span></td><td>10/26 11:48<br>↓ 10/27 11:00<div class=px>156.721 → 157.659</div></td><td class=num><span class="up">+0.94</span></td><td class=num>+4.42</td></tr><tr><td class=num>16</td><td><span class="tag s">売</span></td><td>10/26 10:03<br>↓ 10/26 11:48<div class=px>157.057 → 156.721</div></td><td class=num><span class="up">+0.34</span></td><td class=num>+3.48</td></tr><tr><td class=num>15</td><td><span class="tag b">買</span></td><td>10/22 13:45<br>↓ 10/26 10:03<div class=px>157.719 → 157.057</div></td><td class=num><span class="dn">-0.66</span></td><td class=num>+3.15</td></tr><tr><td class=num>14</td><td><span class="tag s">売</span></td><td>10/22 04:18<br>↓ 10/22 13:45<div class=px>158.26 → 157.719</div></td><td class=num><span class="up">+0.54</span></td><td class=num>+3.81</td></tr><tr><td class=num>13</td><td><span class="tag b">買</span></td><td>10/21 21:48<br>↓ 10/22 04:18<div class=px>157.942 → 158.26</div></td><td class=num><span class="up">+0.32</span></td><td class=num>+3.27</td></tr><tr><td class=num>12</td><td><span class="tag s">売</span></td><td>10/21 10:09<br>↓ 10/21 21:48<div class=px>158.307 → 157.942</div></td><td class=num><span class="up">+0.37</span></td><td class=num>+2.95</td></tr><tr><td class=num>11</td><td><span class="tag b">買</span></td><td>10/20 23:48<br>↓ 10/21 10:09<div class=px>157.983 → 158.307</div></td><td class=num><span class="up">+0.32</span></td><td class=num>+2.58</td></tr><tr><td class=num>10</td><td><span class="tag s">売</span></td><td>10/19 19:18<br>↓ 10/20 23:48<div class=px>158.21 → 157.983</div></td><td class=num><span class="up">+0.23</span></td><td class=num>+2.26</td></tr><tr><td class=num>9</td><td><span class="tag b">買</span></td><td>10/16 13:09<br>↓ 10/19 19:18<div class=px>157.935 → 158.21</div></td><td class=num><span class="up">+0.28</span></td><td class=num>+2.03</td></tr><tr><td class=num>8</td><td><span class="tag s">売</span></td><td>10/16 00:42<br>↓ 10/16 13:09<div class=px>158.126 → 157.935</div></td><td class=num><span class="up">+0.19</span></td><td class=num>+1.76</td></tr><tr><td class=num>7</td><td><span class="tag b">買</span></td><td>10/14 12:45<br>↓ 10/16 00:42<div class=px>158.234 → 158.126</div></td><td class=num><span class="dn">-0.11</span></td><td class=num>+1.57</td></tr><tr><td class=num>6</td><td><span class="tag s">売</span></td><td>10/14 10:36<br>↓ 10/14 12:45<div class=px>158.423 → 158.234</div></td><td class=num><span class="up">+0.19</span></td><td class=num>+1.68</td></tr><tr><td class=num>5</td><td><span class="tag b">買</span></td><td>10/12 10:18<br>↓ 10/14 10:36<div class=px>158.128 → 158.423</div></td><td class=num><span class="up">+0.30</span></td><td class=num>+1.49</td></tr><tr><td class=num>4</td><td><span class="tag s">売</span></td><td>10/09 01:09<br>↓ 10/12 10:18<div class=px>158.297 → 158.128</div></td><td class=num><span class="up">+0.17</span></td><td class=num>+1.19</td></tr><tr><td class=num>3</td><td><span class="tag b">買</span></td><td>10/08 10:06<br>↓ 10/09 01:09<div class=px>157.858 → 158.297</div></td><td class=num><span class="up">+0.44</span></td><td class=num>+1.02</td></tr><tr><td class=num>2</td><td><span class="tag s">売</span></td><td>10/06 15:45<br>↓ 10/08 10:06<div class=px>158.16 → 157.858</div></td><td class=num><span class="up">+0.30</span></td><td class=num>+0.58</td></tr><tr><td class=num>1</td><td><span class="tag b">買</span></td><td>10/06 06:57<br>↓ 10/06 15:45<div class=px>157.879 → 158.16</div></td><td class=num><span class="up">+0.28</span></td><td class=num>+0.28</td></tr></tbody></table></div><details open><summary>⚠ 数字を読むときの注意</summary><ul><li><b>取得日時は 2026-11-04 11:34 JST</b>。TradingView の Essential プランはさかのぼれる期間が日ごとにずれるため、<b>後日まったく同じ操作をしても集計期間と数字が変わります</b></li><li><b>TradingView の画面に出る「利益率」は建玉中の評価損益を含みません</b>。いま建玉中が -0.07 円あり、含めると利益率は 6.109 → 5.713 になります</li><li>表の損益はスプレッドや実際の約定ズレを含みません。実口座の成績とは一致しません</li><li>最大ドローダウンは、決済ごとの累積損益に加えて保有中の含み損も谷として数えています。TradingView の表示と計算の土俵が違うことがあります</li><li>この戦略は5分足6年の独立検証では利益率 0.924（ランダムに入った場合より悪い）でした。ここに出ている短期の高い利益率は、期間の取り方で出ることがあります</li><li>3分足は長期の裏取りができません（手持ちの検証データは最短5分足）</li></ul></details></main></body></html>
+</style></head><body><header><h1>売買記録 2026-11-04</h1><div class=sub>CA_RSI_Bol_1.1_JP — USDJPY 3分足</div><p style='margin:6px 0 0'><a href='../'>← 通算・過去の一覧</a></p></header><main><div class=kpi><div><div class=k>総損益</div><div class=v><span class="up">+5.15</span> 円</div><div class=n>建玉中込み +5.77 円</div></div><div><div class=k>利益率（PF）</div><div class=v>6.109</div><div class=n>建玉中込み 6.723</div></div><div><div class=k>勝率</div><div class=v>81.8%</div><div class=n>18 勝 / 22 取引</div></div><div><div class=k>最大ドローダウン</div><div class=v>1.65 円</div><div class=n>含み損も数えた谷</div></div></div><p class=note><b>取得日時 2026-11-04 20:50 JST</b>（この日さかのぼれた範囲 2026-10-06 〜 2026-11-03）<br>このページは<b>その日の TradingView 画面そのまま</b>です。古い取引も含めた通算は<a href="../">トップページ</a>にあります。</p><p class=note>ChartArt「Bollinger + RSI, Double Strategy」v1.1 の日本語表示版。ロジックは原本と同じで、矢印を「買い／売り」表示にして評価損益を円で出すようにしたもの。アラート2本（1時間足・3分足）が稼働中。いちばん新しい取引（買い・2026-11-03 16:48 建て）は建玉中で、評価損益は含み益・含み損で変わります。</p><h2>戦略レポート（主な統計データと累積損益カーブ）</h2><a href='report.png' target=_blank rel=noopener><img src='report.png' alt='戦略レポート（主な統計データと累積損益カーブ）'></a><p class=cap>画像をタップすると原寸で開きます</p><h2>この日の取引一覧</h2><p>23 件（新しい順）</p><p class=cap>日時は上がエントリー・下が決済。小さい字は価格です。</p><div class=sc><table><thead><tr><th>#</th><th>方向</th><th>日時</th><th>損益<br>(円)</th><th>累積<br>(円)</th></tr></thead><tbody><tr class=op><td class=num>23</td><td><span class="tag b">買</span></td><td>11/03 16:48<br>↓ <b>建玉中</b><div class=px>157.799 → （未決済）</div></td><td class=num><span class="up">+0.62</span></td><td class=num>+5.77</td></tr><tr><td class=num>22</td><td><span class="tag s">売</span></td><td>11/02 09:33<br>↓ 11/03 16:48<div class=px>157.719 → 157.799</div></td><td class=num><span class="dn">-0.08</span></td><td class=num>+5.15</td></tr><tr><td class=num>21</td><td><span class="tag b">買</span></td><td>10/30 06:39<br>↓ 11/02 09:33<div class=px>157.668 → 157.719</div></td><td class=num><span class="up">+0.05</span></td><td class=num>+5.23</td></tr><tr><td class=num>20</td><td><span class="tag s">売</span></td><td>10/29 00:36<br>↓ 10/30 06:39<div class=px>158.199 → 157.668</div></td><td class=num><span class="up">+0.53</span></td><td class=num>+5.18</td></tr><tr><td class=num>19</td><td><span class="tag b">買</span></td><td>10/28 14:54<br>↓ 10/29 00:36<div class=px>157.816 → 158.199</div></td><td class=num><span class="up">+0.38</span></td><td class=num>+4.65</td></tr><tr><td class=num>18</td><td><span class="tag s">売</span></td><td>10/27 11:00<br>↓ 10/28 14:54<div class=px>157.659 → 157.816</div></td><td class=num><span class="dn">-0.16</span></td><td class=num>+4.26</td></tr><tr><td class=num>17</td><td><span class="tag b">買</span></td><td>10/26 11:48<br>↓ 10/27 11:00<div class=px>156.721 → 157.659</div></td><td class=num><span class="up">+0.94</span></td><td class=num>+4.42</td></tr><tr><td class=num>16</td><td><span class="tag s">売</span></td><td>10/26 10:03<br>↓ 10/26 11:48<div class=px>157.057 → 156.721</div></td><td class=num><span class="up">+0.34</span></td><td class=num>+3.48</td></tr><tr><td class=num>15</td><td><span class="tag b">買</span></td><td>10/22 13:45<br>↓ 10/26 10:03<div class=px>157.719 → 157.057</div></td><td class=num><span class="dn">-0.66</span></td><td class=num>+3.15</td></tr><tr><td class=num>14</td><td><span class="tag s">売</span></td><td>10/22 04:18<br>↓ 10/22 13:45<div class=px>158.26 → 157.719</div></td><td class=num><span class="up">+0.54</span></td><td class=num>+3.81</td></tr><tr><td class=num>13</td><td><span class="tag b">買</span></td><td>10/21 21:48<br>↓ 10/22 04:18<div class=px>157.942 → 158.26</div></td><td class=num><span class="up">+0.32</span></td><td class=num>+3.27</td></tr><tr><td class=num>12</td><td><span class="tag s">売</span></td><td>10/21 10:09<br>↓ 10/21 21:48<div class=px>158.307 → 157.942</div></td><td class=num><span class="up">+0.37</span></td><td class=num>+2.95</td></tr><tr><td class=num>11</td><td><span class="tag b">買</span></td><td>10/20 23:48<br>↓ 10/21 10:09<div class=px>157.983 → 158.307</div></td><td class=num><span class="up">+0.32</span></td><td class=num>+2.58</td></tr><tr><td class=num>10</td><td><span class="tag s">売</span></td><td>10/19 19:18<br>↓ 10/20 23:48<div class=px>158.21 → 157.983</div></td><td class=num><span class="up">+0.23</span></td><td class=num>+2.26</td></tr><tr><td class=num>9</td><td><span class="tag b">買</span></td><td>10/16 13:09<br>↓ 10/19 19:18<div class=px>157.935 → 158.21</div></td><td class=num><span class="up">+0.28</span></td><td class=num>+2.03</td></tr><tr><td class=num>8</td><td><span class="tag s">売</span></td><td>10/16 00:42<br>↓ 10/16 13:09<div class=px>158.126 → 157.935</div></td><td class=num><span class="up">+0.19</span></td><td class=num>+1.76</td></tr><tr><td class=num>7</td><td><span class="tag b">買</span></td><td>10/14 12:45<br>↓ 10/16 00:42<div class=px>158.234 → 158.126</div></td><td class=num><span class="dn">-0.11</span></td><td class=num>+1.57</td></tr><tr><td class=num>6</td><td><span class="tag s">売</span></td><td>10/14 10:36<br>↓ 10/14 12:45<div class=px>158.423 → 158.234</div></td><td class=num><span class="up">+0.19</span></td><td class=num>+1.68</td></tr><tr><td class=num>5</td><td><span class="tag b">買</span></td><td>10/12 10:18<br>↓ 10/14 10:36<div class=px>158.128 → 158.423</div></td><td class=num><span class="up">+0.30</span></td><td class=num>+1.49</td></tr><tr><td class=num>4</td><td><span class="tag s">売</span></td><td>10/09 01:09<br>↓ 10/12 10:18<div class=px>158.297 → 158.128</div></td><td class=num><span class="up">+0.17</span></td><td class=num>+1.19</td></tr><tr><td class=num>3</td><td><span class="tag b">買</span></td><td>10/08 10:06<br>↓ 10/09 01:09<div class=px>157.858 → 158.297</div></td><td class=num><span class="up">+0.44</span></td><td class=num>+1.02</td></tr><tr><td class=num>2</td><td><span class="tag s">売</span></td><td>10/06 15:45<br>↓ 10/08 10:06<div class=px>158.16 → 157.858</div></td><td class=num><span class="up">+0.30</span></td><td class=num>+0.58</td></tr><tr><td class=num>1</td><td><span class="tag b">買</span></td><td>10/06 06:57<br>↓ 10/06 15:45<div class=px>157.879 → 158.16</div></td><td class=num><span class="up">+0.28</span></td><td class=num>+0.28</td></tr></tbody></table></div><details open><summary>⚠ 数字を読むときの注意</summary><ul><li><b>取得日時は 2026-11-04 20:50 JST</b>。TradingView の Essential プランはさかのぼれる期間が日ごとにずれるため、<b>後日まったく同じ操作をしても集計期間と数字が変わります</b></li><li><b>TradingView の画面に出る「利益率」は建玉中の評価損益を含みません</b>。いま建玉中が +0.62 円あり、含めると利益率は 6.109 → 6.723 になります</li><li>表の損益はスプレッドや実際の約定ズレを含みません。実口座の成績とは一致しません</li><li>最大ドローダウンは、決済ごとの累積損益に加えて保有中の含み損も谷として数えています。TradingView の表示と計算の土俵が違うことがあります</li><li>この戦略は5分足6年の独立検証では利益率 0.924（ランダムに入った場合より悪い）でした。ここに出ている短期の高い利益率は、期間の取り方で出ることがあります</li><li>3分足は長期の裏取りができません（手持ちの検証データは最短5分足）</li></ul></details></main></body></html>
